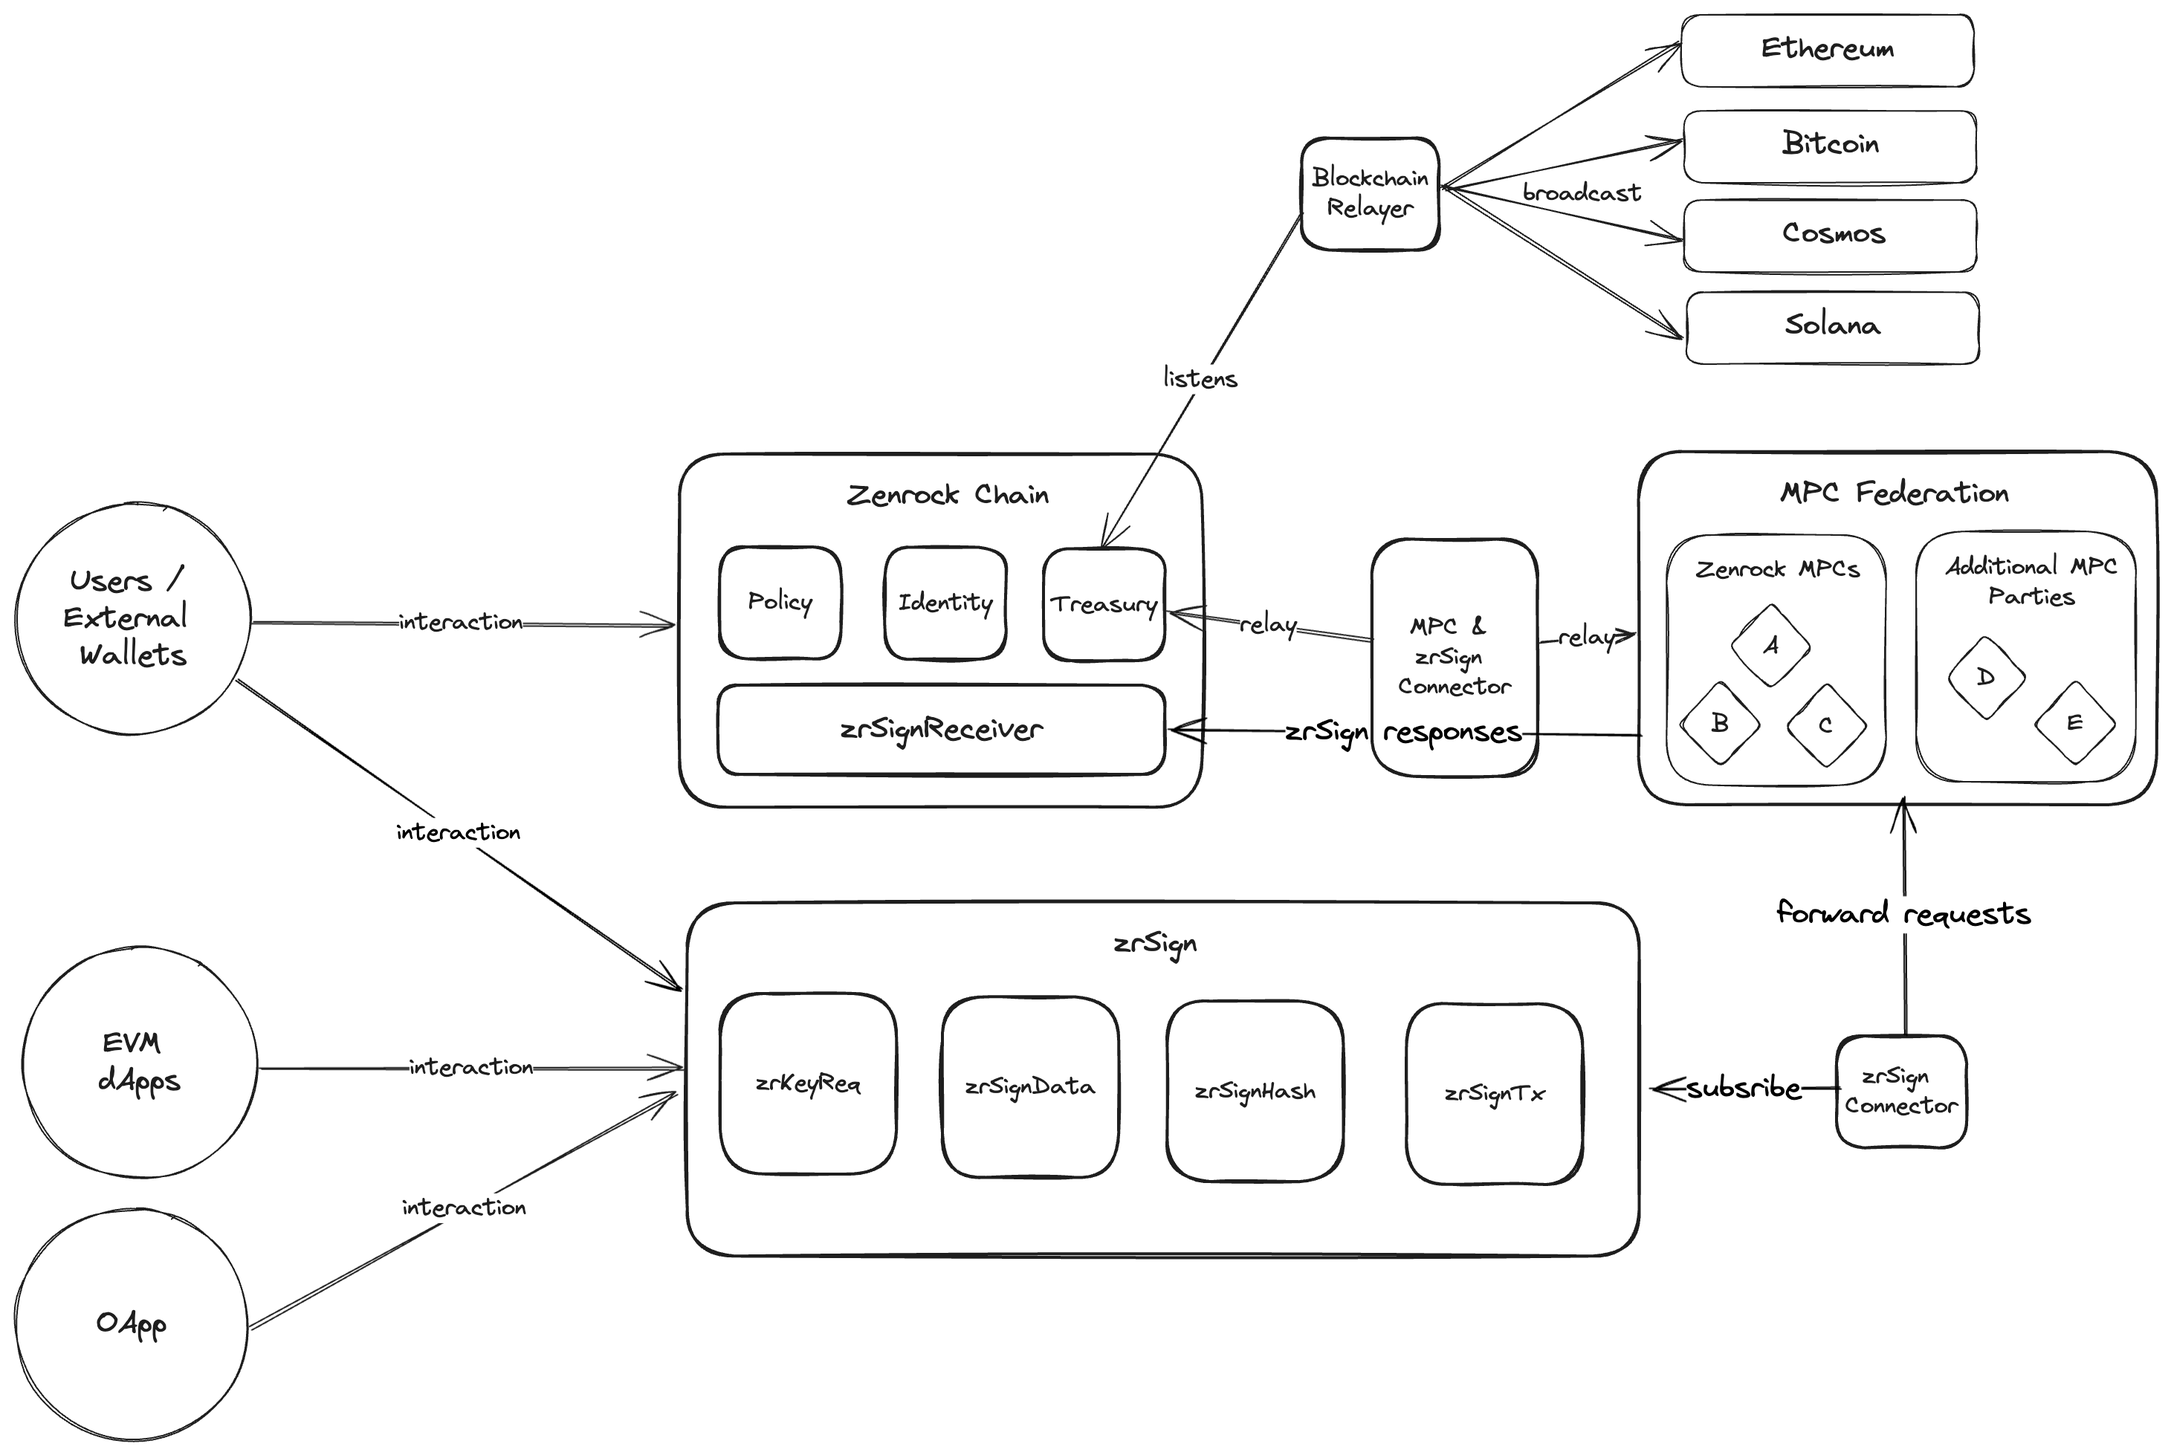
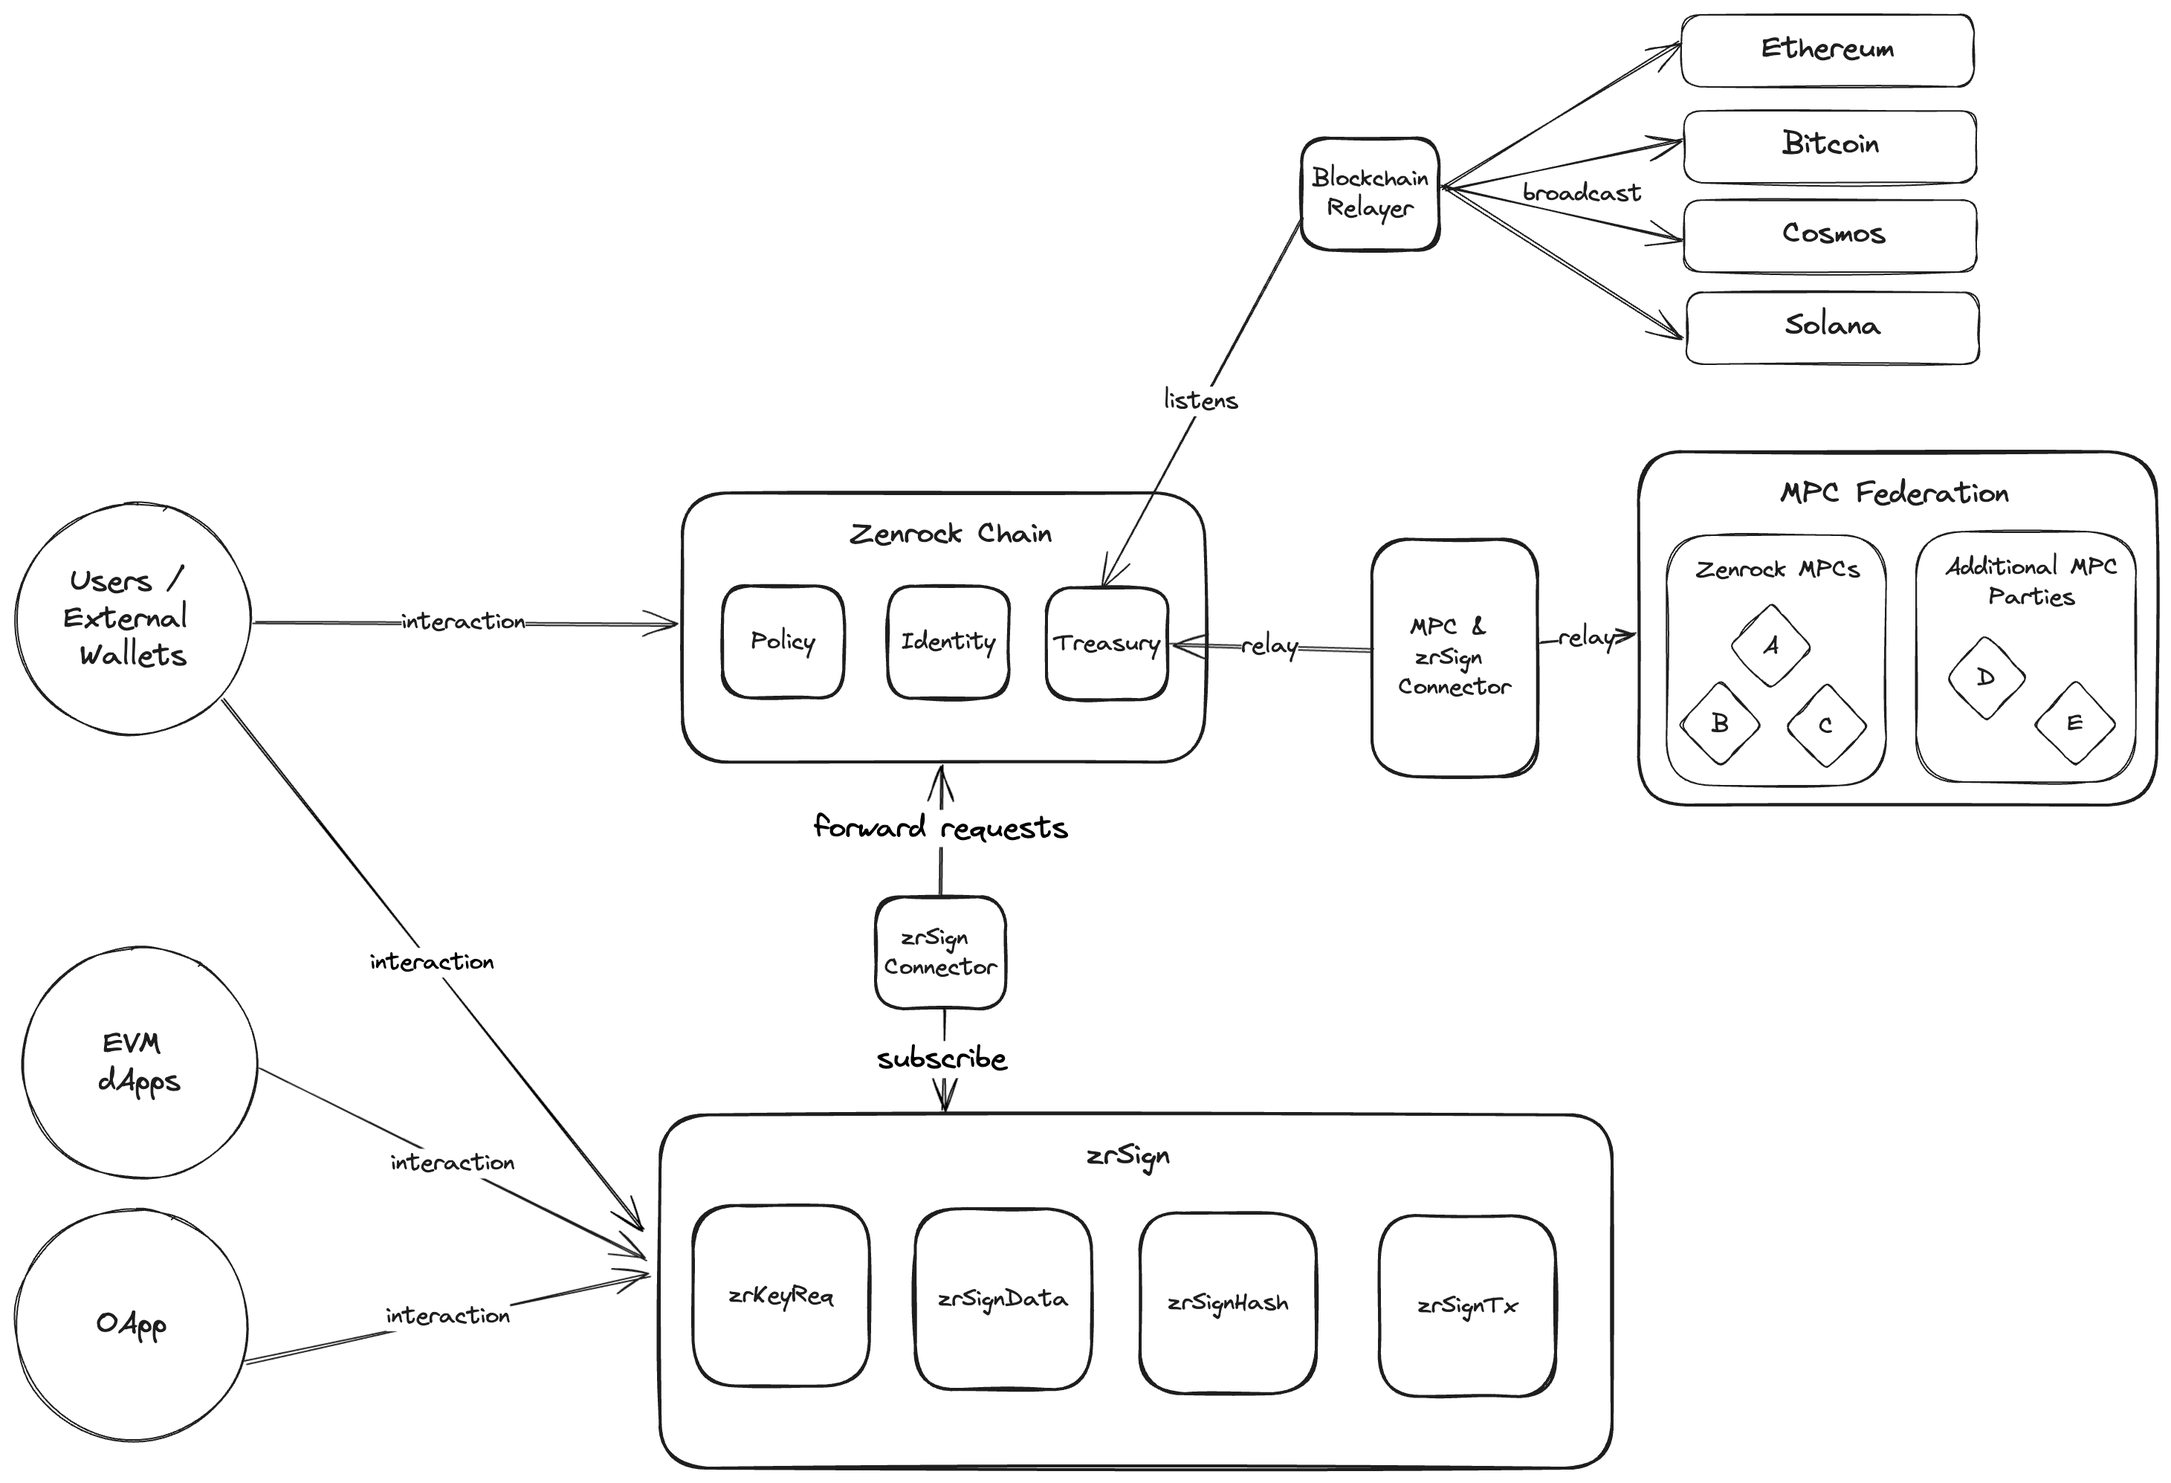
docs: added zrSign Omni

diff --git a/docs/docs/zrSign/releases/zrSignv2.md b/docs/docs/zrSign/releases/zrSignv2.md
@@ -1,33 +1,36 @@
 ---
-title: zrSign Version 2
-sidebar_label: Version 2
+title: zrSign Omni
+sidebar_label: zrSign Omni
 sidebar_position: 3
 ---
 
 ## Introduction
 
-**zrSign v2** is the next evolution step for zrSign to provide even better key and signature services. Building on the foundation of zrSign v1, this version brings significant performance and architecture improvements, leveraging the capabilities of the Zenrock blockchain. 
+**zrSign Omni** is the next evolution step for zrSign to provide even better key and signature services. Building on the foundation of zrSign Direct, this version brings significant performance and architecture improvements, leveraging the capabilities of the Zenrock blockchain. 
 
 ### Zenrock Blockchain to Store Key and Signature Responses
 
-Depending on which EVM network is used to interact with a zrSign v1 smart contract, the process of requesting and returning a key or signature can take up to a few minutes based on the underlying network's traffic and can cause significantly higher transaction fees. To solve this issue, zrSign v2 does keep the same functions to request keys and signatures but will not receive the responses to key and signature requests, but rather those responses are being published on the Zenrock Blockchain. 
+Depending on which EVM network is used to interact with a zrSign Direct smart contract, the process of requesting and returning a key or signature can take up to a few minutes based on the underlying network's traffic and can cause significantly higher transaction fees. To solve this issue, zrSign Omni does keep the same functions to request keys and signatures but will not receive the responses to key and signature requests, but rather those responses are being published on the Zenrock Blockchain. 
 This approach comes with a series of benefits: 
 
 1. ***Continuously fast and cheap processing of requests***: The responses appear on-chain within a few seconds and transaction fees can only be a fraction compared to the evm networks where zrSign is deployed.
-2. ***Key harmonization across zrSign implementation***: zrSign v2 allows accessing keys generated through zrSign smart contracts deployed on other networks. 
+2. ***Key harmonization across zrSign implementation***: zrSign Omni allows accessing keys generated through zrSign smart contracts deployed on other networks. 
 3. ***Backwards compatibility***: The interfaces for zrSign smart contracts stay the same, which ensures stability of all dApps and systems interacting with zrSign smart contracts.
 4. ***Leveraging Workspaces and Policies***: Developers have the possibility to access their key material also through Zenrock Chain directly, giving them direct access to some of the exclusive features on Zenrock such as workspace management and policies for request management.
 
-### Further Access to More Blockchains
+### zrSign Omni Use Cases
 
-zrSign v2 also enables access to other networks like Bitcoin, Solana or other chains with more complex transaction structures. This also includes alternative zrSign implementations on any blockchain for example in a Rust version to deploy zrSign natively on other networks. 
+The addition of zrChain-native policies allows zrSign developers to add conditions and different approvers to their signature requests without needing to handle the authorization level within their smart contract. Thus, further opening the realm of possibilities for smart contracts on different chains to work with each other via zrChain. For example could a DEX aggregator collect approvals from signers on different networks to execute a swap on a remote DEX. In that case, the swap transaction is set on the request and gets immediately executed when the required members have approved the execution.
 
-### zrSign v2 System Architecture
+zrSign Omni also enables access to other networks like Bitcoin, Solana or other chains with more complex transaction structures. This also includes alternative zrSign implementations on any blockchain for example in a Rust version to deploy zrSign natively on other networks. 
 
-The following diagram shows the system architecture of zrSign v2 in combination with the Zenrock blockchain. 
+### zrSign Omni System Architecture
 
-![zrSign v2 Architecture](../../../static/img/zrSignV2.png)
+The following diagram shows the system architecture of zrSign Omni in combination with the Zenrock blockchain. 
 
-The system architecture is very similar to the one of the Zenrock blockchain today, but it additionally does have `zrSignReceiver` component. 
-This component will store the responses for key and signature requests and provides access to the other Zenrock modules. 
+![ zrSign Omni Architecture](../../../static/img/zrSignV2.png)
+
+For zrSign Omni, the architecture of the zrSign smart contract only changes slightly. While the exposed methods stay the same, the responses are not stored on the zrSign smart contract directly, but instead forwarded on zrChain. 
+
+On zrChain, we added a few new methods that help creating workspaces and keys through zrSign but were mostly able to go with existing processes and types in zrChain. This brings large benefits as the developer experience is largely harmonized between the zrChain-native CosmWasm smart contracts and those from the EVM. 
 It's also worth mentioning that no additional relayer logic is required and the ones listening on Zenrock directly can be used to broadcast cross-chain messages. Instead of running multiple relayers, developers can now only run a single one which can be tailored to their custom address for example.

diff --git a/docs/docs/testnet-guides/zrSignV2.md b/docs/docs/testnet-guides/zrSignV2.md
@@ -1,27 +1,28 @@
 ---
-title: zrSign Use 
-sidebar_label: zrSign developer flow
+title: zrSign Developer Guide 
+sidebar_label: zrSign Developer Guide
 sidebar_position: 4
 ---
 
-zrSign provides MPC features through key- and signature requests particularly for EVM chains right now. Interfacing zrSign allows solidity-based dApps to invoke zrSign's methods and access its state. Read more about zrSign and how to integrate it best in [this section](../../../docs/docs/zrSign/_category_.json) of our documentation.
+zrSign provides Zenrock MPC network features via key and signature requests. Current support is for EVM based chains with many more coming in the near future.
+Interfacing with zrSign allows Solidity-based dApps to invoke zrSign's methods and access its state. For more information on zrSign and its integration, refer to [this section](../../../docs/docs/zrSign/_category_.json) of our documentation.
+This page focuses on the differences between zrSign Direct and zrSign Omni and how they can be leveraged for different use cases.
 
-This page focuses on how zrSign version 1 and zrSign version 2 are different and how they can be used in dApps. 
+## zrSign Direct
 
-## zrSign version 1 
+zrSign Direct enables developers to [interface](../zrSign/devs/references/izrsign-interface.md) their dApps directly with zrSign, allowing them to build use cases based on the keys and signatures returned by the Zenrock MPC network and managed directly by the smart contract. zrSign Direct allows dApp developers to query keys and signatures directly from the smart contract for use within the dApp.
 
-zrSign version 1 aims for developers to [interface](../zrSign/devs/references/izrsign-interface.md) their dApp with zrSign directly and then let the dApp developer build their use case around the returned keys and signatures coming from Zenrock's MPC. 
+## zrSign Omni
 
-This allows the dApp developer to query the keys and signatures directly from the zrSign smart contract and use this information within the dApp. 
+zrSign Omni (coming this summer) exposes Zenrock chain (zrChain) features for EVM developers remotely. The interfaces to the zrSign smart contract remain the same. However, keys and signatures are returned to zrChain instead of the smart contract.
+This fully integrates key and signature requests with zrChain. 
 
-## zrSign version 2 - "the zrChain outpost"
-
-zrSign version 2, which will be released soon, aims for enabling zrChains features for EVM developers remotely. While the interfaces to zrSign stay the same, and therefore the developer experience calling them, the keys and signatures are not returned to the smart contract but instead on zrChain directly. 
-
-The keys and processes are then fully integrated with zrChain, embedded in a workspace and managed by admin- and sign policies, exposed to different type of keys and wallet types not represented on zrSign version 1. Developers then can make signature requests via zrSign version 2 that are getting processed on zrChain to facilitate a cross-chain experience. 
-
-The addition of zrChain-native policies allows zrSign developers to add conditions and different approvers to their signature requests without needing to handle the authorization level within their smart contract. Thus, further opening the realm of possibilities for smart contracts on different chains to work with each other via zrChain. 
+zrSign Omni:
+1. Allows keys to be embedded in a Workspace which can be used by an admin and to sign policies
+2. Provides developers access to a broader set of blockchains than zrSign Direct (most notably Bitcoin and Solana)
+3. Allows developers to craft custom business rules in the form of Policies to control transaction flows, necessary approvers, etc.
+4. Allows developers to use other key ring providers in addition to the Zenrock MPC network 
 
 ## Deployment
 
-Both implementations will be their own product and deployed as separate smart contracts, meaning developers will be able to use both versions independently of each other. 
+zrSign Direct and zrSign Omni are distinct products and deployed as separate smart contracts, allowing developers to use both versions independently.

diff --git a/docs/docs/zrSign/releases/zrSignv1.md b/docs/docs/zrSign/releases/zrSignv1.md
@@ -1,6 +1,6 @@
 ---
-title: The zrSign Protocol Version 1
-sidebar_label: Version 1
+title: zrSign Direct
+sidebar_label: zrSign Direct
 sidebar_position: 2
 slug: /zrsign
 ---
@@ -16,9 +16,9 @@ blinded hashes (**zrSignHash**), and for transactions (**zrSignTx**) including a
 The protocol is implemented as a set of smart contracts that can receive requests and the dMPC's responses.
 A proxy smart contract allows for upgrading zrSign and the addition of new features. 
 
-The next major version of zrSign - [zrSign v2](zrSignv2.md) - comes with additional performance- and architecture improvements leveraging the Zenrock blockchain! In this version, responses to request originating from zrSign smart contracts will get published on Zenrock directly, with additional features without changing the developer experience on the existing zrSign smart contracts and their consuming dapps. 
+The next major version of zrSign - [ zrSign Omni](zrSignv2.md) - comes with additional performance- and architecture improvements leveraging the Zenrock blockchain! In this version, responses to request originating from zrSign smart contracts will get published on Zenrock directly, with additional features without changing the developer experience on the existing zrSign smart contracts and their consuming dapps. 
 
-The following diagram shows the solution architecture of zrSign v1:
+The following diagram shows the solution architecture of zrSign Direct:
 
 ![zrSign Architecture](../../../static/img/zrsign-architecture.png)
 

diff --git a/docs/docs/introduction.md b/docs/docs/introduction.md
@@ -77,3 +77,11 @@ Besides providing three custom modules ([identity](./zenrock/identity.md), [trea
 and [policy](./zenrock/policy.md)), Zenrock also has support for CosmWasm. The rust-based
 smart contract language allows building more dynamic use cases, dapps and other features
 to facilitate a rapid development and cost-effective interaction.
+
+### Smart Contracts with zrSign
+
+For developers preferring EVM networks to interface with our MPCs, we provide zrSign - a solidity-based smart contract solution that exposes methods to request keys- and signatures. Developers can chose between two versions of zrSign - zrSign Direct and zrSign Omni. 
+
+While they both expose methods to make key- and signature requests, they differ in where the responses are being published. In zrSign direct, the requests are made directly to Zenrocks MPC Federation and returned back to the zrSign smart contract where the public keys and signatures are being stored. This implementation lets other dApps access their assets directly. zrSign Omni forwards the requests to zrChain, where it will be managed through workspaces and exposed to other features like policies and choice of keyrings to process the requests. Thus, bringing zrChain features directly to dApps on the EVM.
+
+Check out zrSign in our [user guide](./testnet-guides/zrSignV2.md) and on the [implementation docs](./zrSign/_category_.json). 

diff --git a/docs/docs/zrSign/releases/addresses.md b/docs/docs/zrSign/releases/addresses.md
@@ -4,9 +4,9 @@ sidebar_label: zrSign Chain Support
 sidebar_position: 1
 ---
 
-### zrSign Version 1
+### zrSign Direct
 
-In version 1, zrSign is deployed as a solidity smart contract on selected evm blockchains and receives key and signature requests. 
+In zrSign Direct, zrSign is deployed as a solidity smart contract on selected evm blockchains and receives key and signature requests. 
 Destination blockchains can be specified through `CAIPs` and may require a custom relayer implementation to broadcast the transaction.
 
 <!-- TODO: update zrSign contract addresses. -->
@@ -17,6 +17,6 @@ Currently supported networks in v1 are:
 
 More EVM chains will be announced soon!
 
-### zrSign Version 2
+### zrSign Omni
 
-In version 2 with it beying closely entangled with Zenrock chain, zrSign will have only EVM support to begin with but will add more networks like more EVM chains, Bitcoin, Cosmos, and Solana to fulfill Zenrock's [omnichain vision](../../introduction.md#going-omnichain-with-zenrock) throughout testnet phase.
+In zrSign Omni with it beying closely entangled with Zenrock chain, zrSign will have only EVM support to begin with but will add more networks like more EVM chains, Bitcoin, Cosmos, and Solana to fulfill Zenrock's [omnichain vision](../../introduction.md#going-omnichain-with-zenrock) throughout testnet phase.

diff --git a/docs/docs/testnet-guides/welcome.md b/docs/docs/testnet-guides/welcome.md
@@ -8,13 +8,14 @@ Welcome to the Zenrock Blockchain (”zrChain”) testnet guide which covers its
 
 ## Links to Guides
 
-- [Setuo](setup.md)
+- [Setup](setup.md)
 - [Zenrock Chain Guide](zenrock-guide.md)
 - [Ethereum Guide](../testnet-guides/explore-ethereum/_category_.json)
     - [WalletConnect Test dApp](../testnet-guides/explore-ethereum/walletConnect.md)
     - [Personal Sign](../testnet-guides/explore-ethereum/personal-sign.md)
     - [Uniswap Guide](../testnet-guides/explore-ethereum/uniswap.md)
     - [Policy Guide](../testnet-guides/explore-ethereum/policy-swap.md)
+- [zrSign Developer Guide](zrSignV2.md)
 
 ## General Information
 
